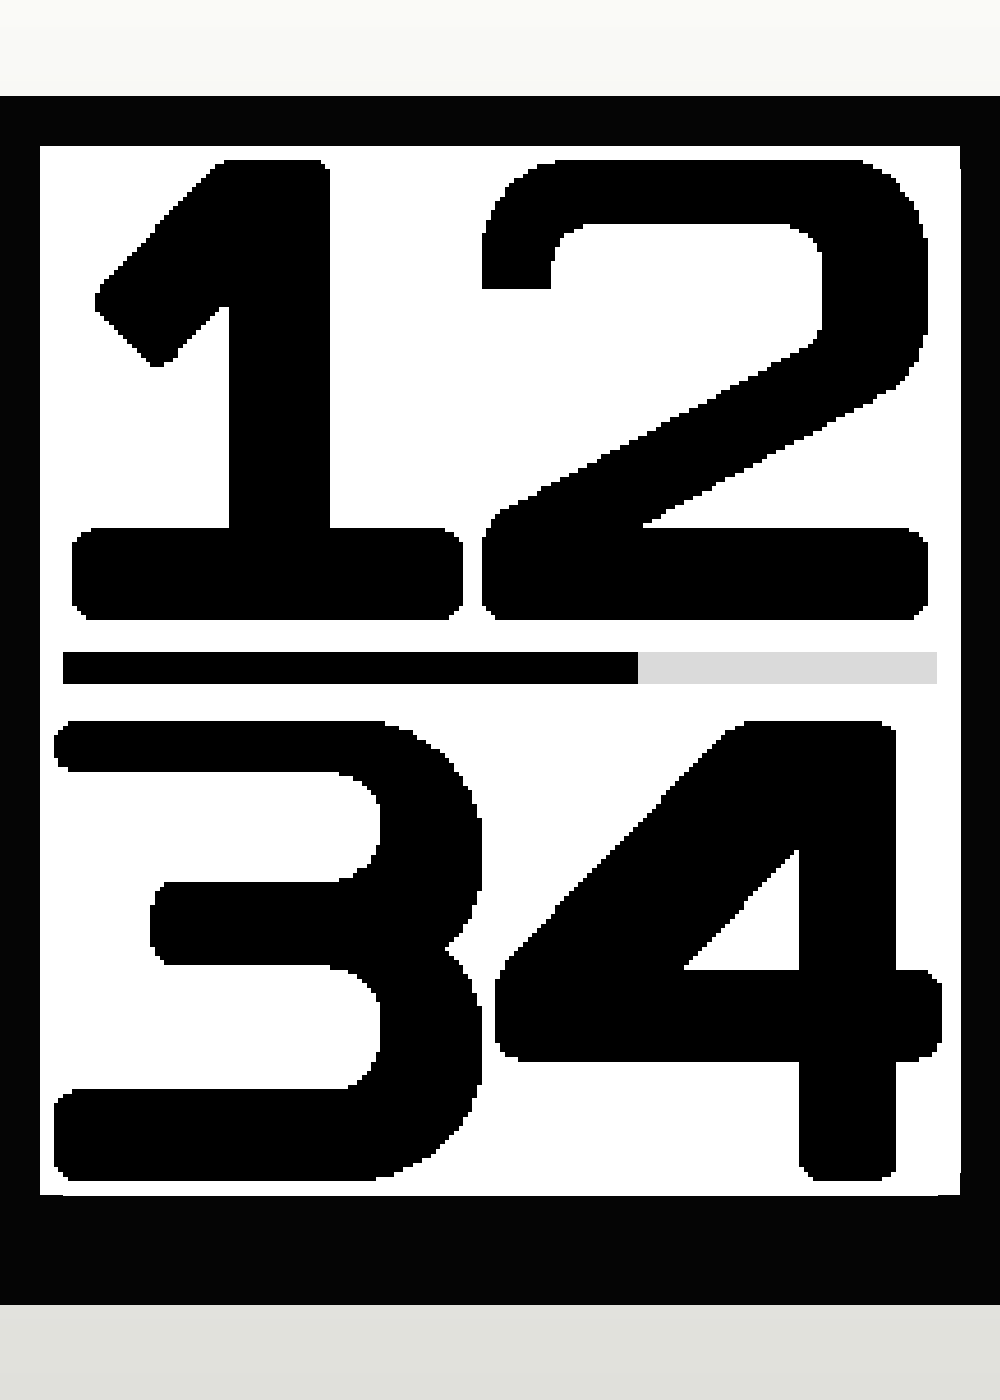
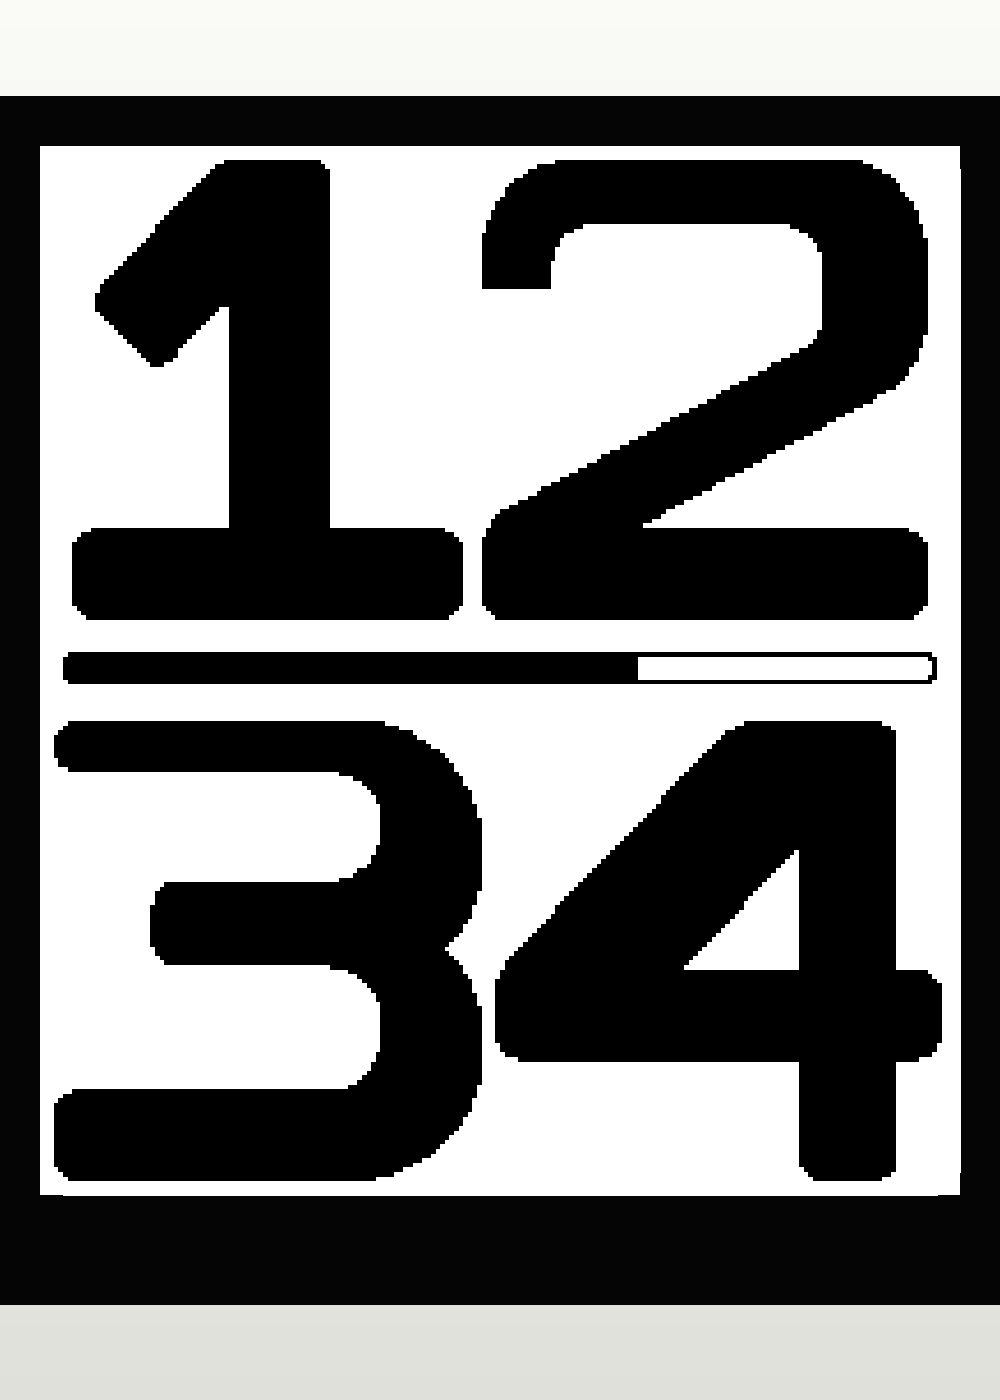
Update battery indicator progress bar

Changed region(s): [[0.62, 0.4607, 0.961, 0.4914]]

diff --git a/watchface/tools/render_previews.py b/watchface/tools/render_previews.py
@@ -4,7 +4,7 @@ from __future__ import annotations
 import json
 from pathlib import Path
 
-from PIL import Image, ImageDraw
+from PIL import Image, ImageChops, ImageDraw
 
 WATCHFACE_DIR = Path(__file__).resolve().parents[1]
 METRICS_PATH = WATCHFACE_DIR / "src" / "c" / "generated" / "squintless_typeface_metrics.json"
@@ -14,10 +14,11 @@ WIDTH = 200
 HEIGHT = 228
 OUTER_MARGIN = 2
 CENTRAL_GAP_H = 16
-BATTERY_LINE_H = 7
-BATTERY_LINE_INSET = 5
-LOW_BATTERY_MIN_W = 8
-BATTERY_REMAINDER_GRAY = 218
+BATTERY_BAR_H = 7
+BATTERY_BAR_INSET = 5
+BATTERY_BAR_RADIUS = 2
+BATTERY_BAR_BORDER = 1
+BATTERY_VALIDATION_DIR = OUT_DIR / "battery-validation"
 
 STATES = [
     ("08", "36", 75, "08-36"),
@@ -31,11 +32,13 @@ STATES = [
     ("22", "22", 40, "22-22"),
 ]
 
+BATTERY_VALIDATION_LEVELS = [100, 75, 50, 25, 10, 0]
+
 
 def layout():
     half_h = (HEIGHT - CENTRAL_GAP_H) // 2
     gap_y = half_h
-    line_y = gap_y + (CENTRAL_GAP_H - BATTERY_LINE_H) // 2
+    bar_y = gap_y + (CENTRAL_GAP_H - BATTERY_BAR_H) // 2
     return {
         "hour": (OUTER_MARGIN, 0, WIDTH - OUTER_MARGIN * 2, half_h),
         "minute": (
@@ -45,10 +48,10 @@ def layout():
             HEIGHT - half_h - CENTRAL_GAP_H,
         ),
         "battery": (
-            BATTERY_LINE_INSET,
-            line_y,
-            WIDTH - BATTERY_LINE_INSET * 2,
-            BATTERY_LINE_H,
+            BATTERY_BAR_INSET,
+            bar_y,
+            WIDTH - BATTERY_BAR_INSET * 2,
+            BATTERY_BAR_H,
         ),
     }
 
@@ -68,23 +71,51 @@ def draw_centered_asset(canvas, asset, bounds):
     canvas.paste(asset, (ax, ay))
 
 
-def draw_battery(draw, bounds, percent):
+def draw_battery(canvas, bounds, percent):
     x, y, w, h = bounds
-    fill_w = w * percent // 100
-    if percent > 0 and fill_w < LOW_BATTERY_MIN_W:
-        fill_w = LOW_BATTERY_MIN_W
-    draw.rectangle((x, y, x + w - 1, y + h - 1), fill=BATTERY_REMAINDER_GRAY)
-    if fill_w > 0:
-        draw.rectangle((x, y, x + fill_w - 1, y + h - 1), fill=0)
+    draw = ImageDraw.Draw(canvas)
+    draw.rounded_rectangle(
+        (x, y, x + w - 1, y + h - 1),
+        radius=BATTERY_BAR_RADIUS,
+        fill=0,
+    )
+
+    border = BATTERY_BAR_BORDER
+    inner_x = x + border
+    inner_y = y + border
+    inner_w = w - border * 2
+    inner_h = h - border * 2
+    inner_radius = max(0, BATTERY_BAR_RADIUS - border)
+    draw.rounded_rectangle(
+        (inner_x, inner_y, inner_x + inner_w - 1, inner_y + inner_h - 1),
+        radius=inner_radius,
+        fill=255,
+    )
+
+    percent = max(0, min(100, percent))
+    fill_w = (inner_w * percent + 50) // 100
+    if fill_w <= 0:
+        return
+
+    inner_mask = Image.new("L", (inner_w, inner_h), 0)
+    mask_draw = ImageDraw.Draw(inner_mask)
+    mask_draw.rounded_rectangle(
+        (0, 0, inner_w - 1, inner_h - 1),
+        radius=inner_radius,
+        fill=255,
+    )
+    fill_mask = Image.new("L", (inner_w, inner_h), 0)
+    fill_draw = ImageDraw.Draw(fill_mask)
+    fill_draw.rectangle((0, 0, fill_w - 1, inner_h - 1), fill=255)
+    canvas.paste(0, (inner_x, inner_y), ImageChops.multiply(inner_mask, fill_mask))
 
 
 def render(metrics, hour, minute, battery):
     bounds = layout()
     canvas = Image.new("L", (WIDTH, HEIGHT), 255)
-    draw = ImageDraw.Draw(canvas)
 
     draw_centered_asset(canvas, load_asset(metrics, hour), bounds["hour"])
-    draw_battery(draw, bounds["battery"], battery)
+    draw_battery(canvas, bounds["battery"], battery)
     draw_centered_asset(canvas, load_asset(metrics, minute), bounds["minute"])
     return canvas
 
@@ -92,10 +123,18 @@ def render(metrics, hour, minute, battery):
 def main():
     metrics = json.loads(METRICS_PATH.read_text())
     OUT_DIR.mkdir(exist_ok=True)
+    BATTERY_VALIDATION_DIR.mkdir(exist_ok=True)
     for hour, minute, battery, slug in STATES:
         render(metrics, hour, minute, battery).save(
             OUT_DIR / f"squintless-{slug}-battery-{battery}.png"
         )
+
+    validation_strip = Image.new("L", (WIDTH * len(BATTERY_VALIDATION_LEVELS), HEIGHT), 255)
+    for index, battery in enumerate(BATTERY_VALIDATION_LEVELS):
+        preview = render(metrics, "08", "36", battery)
+        preview.save(BATTERY_VALIDATION_DIR / f"squintless-08-36-battery-{battery:03d}.png")
+        validation_strip.paste(preview, (WIDTH * index, 0))
+    validation_strip.save(BATTERY_VALIDATION_DIR / "squintless-battery-validation-strip.png")
 
 
 if __name__ == "__main__":

diff --git a/watchface/src/c/squintless.c b/watchface/src/c/squintless.c
@@ -5,9 +5,10 @@
 typedef struct {
   int outer_margin;
   int central_gap_h;
-  int battery_line_h;
-  int battery_line_inset;
-  int low_battery_min_w;
+  int battery_bar_h;
+  int battery_bar_inset;
+  int battery_bar_radius;
+  int battery_bar_border;
   GRect hour_bounds;
   GRect minute_bounds;
   GRect battery_bounds;
@@ -24,18 +25,21 @@ static int s_battery_percent = 100;
 static SquintlessLayout prv_layout_for_bounds(GRect bounds) {
   const int outer_margin = 2;
   const int central_gap_h = 16;
-  const int battery_line_h = 7;
-  const int battery_line_inset = 5;
+  const int battery_bar_h = 7;
+  const int battery_bar_inset = 5;
+  const int battery_bar_radius = 2;
+  const int battery_bar_border = 1;
   const int half_h = (bounds.size.h - central_gap_h) / 2;
   const int gap_y = bounds.origin.y + half_h;
-  const int line_y = gap_y + (central_gap_h - battery_line_h) / 2;
+  const int bar_y = gap_y + (central_gap_h - battery_bar_h) / 2;
 
   return (SquintlessLayout) {
     .outer_margin = outer_margin,
     .central_gap_h = central_gap_h,
-    .battery_line_h = battery_line_h,
-    .battery_line_inset = battery_line_inset,
-    .low_battery_min_w = 8,
+    .battery_bar_h = battery_bar_h,
+    .battery_bar_inset = battery_bar_inset,
+    .battery_bar_radius = battery_bar_radius,
+    .battery_bar_border = battery_bar_border,
     .hour_bounds = GRect(bounds.origin.x + outer_margin,
                          bounds.origin.y,
                          bounds.size.w - (outer_margin * 2),
@@ -44,10 +48,10 @@ static SquintlessLayout prv_layout_for_bounds(GRect bounds) {
                            gap_y + central_gap_h,
                            bounds.size.w - (outer_margin * 2),
                            bounds.size.h - half_h - central_gap_h),
-    .battery_bounds = GRect(bounds.origin.x + battery_line_inset,
-                            line_y,
-                            bounds.size.w - (battery_line_inset * 2),
-                            battery_line_h),
+    .battery_bounds = GRect(bounds.origin.x + battery_bar_inset,
+                            bar_y,
+                            bounds.size.w - (battery_bar_inset * 2),
+                            battery_bar_h),
   };
 }
 
@@ -116,21 +120,34 @@ static void prv_draw_bitmap_centered(GContext *ctx, GBitmap *bitmap, GRect bound
 }
 
 static void prv_draw_battery(GContext *ctx, const SquintlessLayout *layout) {
-  int fill_w = (layout->battery_bounds.size.w * s_battery_percent) / 100;
-  if (s_battery_percent > 0 && fill_w < layout->low_battery_min_w) {
-    fill_w = layout->low_battery_min_w;
+  const GRect outer = layout->battery_bounds;
+  const int border = layout->battery_bar_border;
+  const int inner_radius = layout->battery_bar_radius > border ?
+                           layout->battery_bar_radius - border : 0;
+  const GRect inner = GRect(outer.origin.x + border,
+                            outer.origin.y + border,
+                            outer.size.w - (border * 2),
+                            outer.size.h - (border * 2));
+  int fill_w = (inner.size.w * s_battery_percent + 50) / 100;
+  if (fill_w > inner.size.w) {
+    fill_w = inner.size.w;
   }
 
-  graphics_context_set_fill_color(ctx, GColorLightGray);
-  graphics_fill_rect(ctx, layout->battery_bounds, 0, GCornersAll);
+  graphics_context_set_fill_color(ctx, GColorBlack);
+  graphics_fill_rect(ctx, outer, layout->battery_bar_radius, GCornersAll);
+
+  graphics_context_set_fill_color(ctx, GColorWhite);
+  graphics_fill_rect(ctx, inner, inner_radius, GCornersAll);
 
   if (fill_w > 0) {
     graphics_context_set_fill_color(ctx, GColorBlack);
-    graphics_fill_rect(ctx, GRect(layout->battery_bounds.origin.x,
-                                  layout->battery_bounds.origin.y,
+    graphics_fill_rect(ctx, GRect(inner.origin.x,
+                                  inner.origin.y,
                                   fill_w,
-                                  layout->battery_bounds.size.h),
-                       0, GCornersAll);
+                                  inner.size.h),
+                       inner_radius,
+                       fill_w >= inner.size.w ? GCornersAll :
+                                                (GCornerTopLeft | GCornerBottomLeft));
   }
 }
 

diff --git a/tools/generate_store_assets.py b/tools/generate_store_assets.py
@@ -4,7 +4,7 @@ from __future__ import annotations
 import json
 from pathlib import Path
 
-from PIL import Image, ImageDraw, ImageFilter, ImageFont
+from PIL import Image, ImageChops, ImageDraw, ImageFilter, ImageFont
 
 ROOT = Path(__file__).resolve().parents[1]
 WATCHFACE_DIR = ROOT / "watchface"
@@ -20,10 +20,10 @@ WIDTH = 200
 HEIGHT = 228
 OUTER_MARGIN = 2
 CENTRAL_GAP_H = 16
-BATTERY_LINE_H = 7
-BATTERY_LINE_INSET = 5
-LOW_BATTERY_MIN_W = 8
-BATTERY_REMAINDER_GRAY = 218
+BATTERY_BAR_H = 7
+BATTERY_BAR_INSET = 5
+BATTERY_BAR_RADIUS = 2
+BATTERY_BAR_BORDER = 1
 
 TAGLINE = "Designed for your aging eyes, not your ego."
 
@@ -49,7 +49,7 @@ def ensure_dirs() -> None:
 def layout() -> dict[str, tuple[int, int, int, int]]:
     half_h = (HEIGHT - CENTRAL_GAP_H) // 2
     gap_y = half_h
-    line_y = gap_y + (CENTRAL_GAP_H - BATTERY_LINE_H) // 2
+    bar_y = gap_y + (CENTRAL_GAP_H - BATTERY_BAR_H) // 2
     return {
         "hour": (OUTER_MARGIN, 0, WIDTH - OUTER_MARGIN * 2, half_h),
         "minute": (
@@ -59,10 +59,10 @@ def layout() -> dict[str, tuple[int, int, int, int]]:
             HEIGHT - half_h - CENTRAL_GAP_H,
         ),
         "battery": (
-            BATTERY_LINE_INSET,
-            line_y,
-            WIDTH - BATTERY_LINE_INSET * 2,
-            BATTERY_LINE_H,
+            BATTERY_BAR_INSET,
+            bar_y,
+            WIDTH - BATTERY_BAR_INSET * 2,
+            BATTERY_BAR_H,
         ),
     }
 
@@ -87,21 +87,49 @@ def draw_centered_asset(canvas: Image.Image, asset: Image.Image, bounds: tuple[i
 def render_face(metrics: dict, hour: str, minute: str, battery: int) -> Image.Image:
     bounds = layout()
     canvas = Image.new("L", (WIDTH, HEIGHT), 255)
-    draw = ImageDraw.Draw(canvas)
     draw_centered_asset(canvas, load_face_asset(metrics, hour), bounds["hour"])
-    draw_battery(draw, bounds["battery"], battery)
+    draw_battery(canvas, bounds["battery"], battery)
     draw_centered_asset(canvas, load_face_asset(metrics, minute), bounds["minute"])
     return canvas
 
 
-def draw_battery(draw: ImageDraw.ImageDraw, bounds: tuple[int, int, int, int], percent: int) -> None:
+def draw_battery(canvas: Image.Image, bounds: tuple[int, int, int, int], percent: int) -> None:
     x, y, w, h = bounds
-    fill_w = w * percent // 100
-    if percent > 0 and fill_w < LOW_BATTERY_MIN_W:
-        fill_w = LOW_BATTERY_MIN_W
-    draw.rectangle((x, y, x + w - 1, y + h - 1), fill=BATTERY_REMAINDER_GRAY)
-    if fill_w > 0:
-        draw.rectangle((x, y, x + fill_w - 1, y + h - 1), fill=0)
+    draw = ImageDraw.Draw(canvas)
+    draw.rounded_rectangle(
+        (x, y, x + w - 1, y + h - 1),
+        radius=BATTERY_BAR_RADIUS,
+        fill=0,
+    )
+
+    border = BATTERY_BAR_BORDER
+    inner_x = x + border
+    inner_y = y + border
+    inner_w = w - border * 2
+    inner_h = h - border * 2
+    inner_radius = max(0, BATTERY_BAR_RADIUS - border)
+    draw.rounded_rectangle(
+        (inner_x, inner_y, inner_x + inner_w - 1, inner_y + inner_h - 1),
+        radius=inner_radius,
+        fill=255,
+    )
+
+    percent = max(0, min(100, percent))
+    fill_w = (inner_w * percent + 50) // 100
+    if fill_w <= 0:
+        return
+
+    inner_mask = Image.new("L", (inner_w, inner_h), 0)
+    mask_draw = ImageDraw.Draw(inner_mask)
+    mask_draw.rounded_rectangle(
+        (0, 0, inner_w - 1, inner_h - 1),
+        radius=inner_radius,
+        fill=255,
+    )
+    fill_mask = Image.new("L", (inner_w, inner_h), 0)
+    fill_draw = ImageDraw.Draw(fill_mask)
+    fill_draw.rectangle((0, 0, fill_w - 1, inner_h - 1), fill=255)
+    canvas.paste(0, (inner_x, inner_y), ImageChops.multiply(inner_mask, fill_mask))
 
 
 def gradient(size: tuple[int, int], top: tuple[int, int, int], bottom: tuple[int, int, int]) -> Image.Image:

diff --git a/store/metadata.md b/store/metadata.md
@@ -22,7 +22,7 @@ The layout is intentionally simple: hours on top, a full-width battery indicator
 
 The numerals are custom Squintless glyphs, generated from canonical SVG source artwork into hard monochrome Pebble bitmap resources. They are oversized, high-contrast, and tuned for the 200 x 228 Pebble Time 2 display.
 
-The battery indicator reads like a quiet drain line: black for charge remaining, light gray for charge used. It is visible without competing with the time.
+The battery indicator reads like a quiet outlined progress bar: black for charge remaining and white for charge used. It is visible without competing with the time.
 
 Squintless is for people over 40, anyone whose near vision is not what it used to be, and anyone who values function over decoration.
 
@@ -32,7 +32,7 @@ Initial production release.
 
 - Purpose-built Pebble Time 2 layout for instant time recognition.
 - Custom Squintless numeral set optimized for large, high-contrast readability.
-- Full-width battery drain indicator with black remaining charge and subtle gray used capacity.
+- Full-width outlined battery progress indicator with proportional black fill.
 - No secondary complications, icons, seconds, or decorative information.
 - Built exclusively for `emery`, the Pebble Time 2 platform.
 

diff --git a/README.md b/README.md
@@ -40,13 +40,13 @@ The layout is deliberately stable. There are no animations, secondary modes, or 
 
 ## Battery Indicator
 
-The center line always spans the same width.
+The center progress bar always spans the same width.
 
 - Black shows charge remaining.
-- Light gray shows capacity already used.
-- Very low nonzero battery still gets a small visible black segment.
+- The thin outline remains visible at every charge level.
+- The interior is white where charge has been used.
 
-It reads as a drain line without pulling attention away from the numerals.
+It reads as a quiet progress indicator without pulling attention away from the numerals.
 
 ## Typography
 

diff --git a/watchface/README.md b/watchface/README.md
@@ -5,7 +5,7 @@ This is the production Pebble Time 2 watchface project for Squintless.
 The watchface renders only:
 
 - Hours
-- Battery drain line
+- Outlined battery progress indicator
 - Minutes
 
 All numeral artwork is generated from `../typeface/artifacts/`. Do not edit `resources/images/` or `src/c/generated/` by hand.
